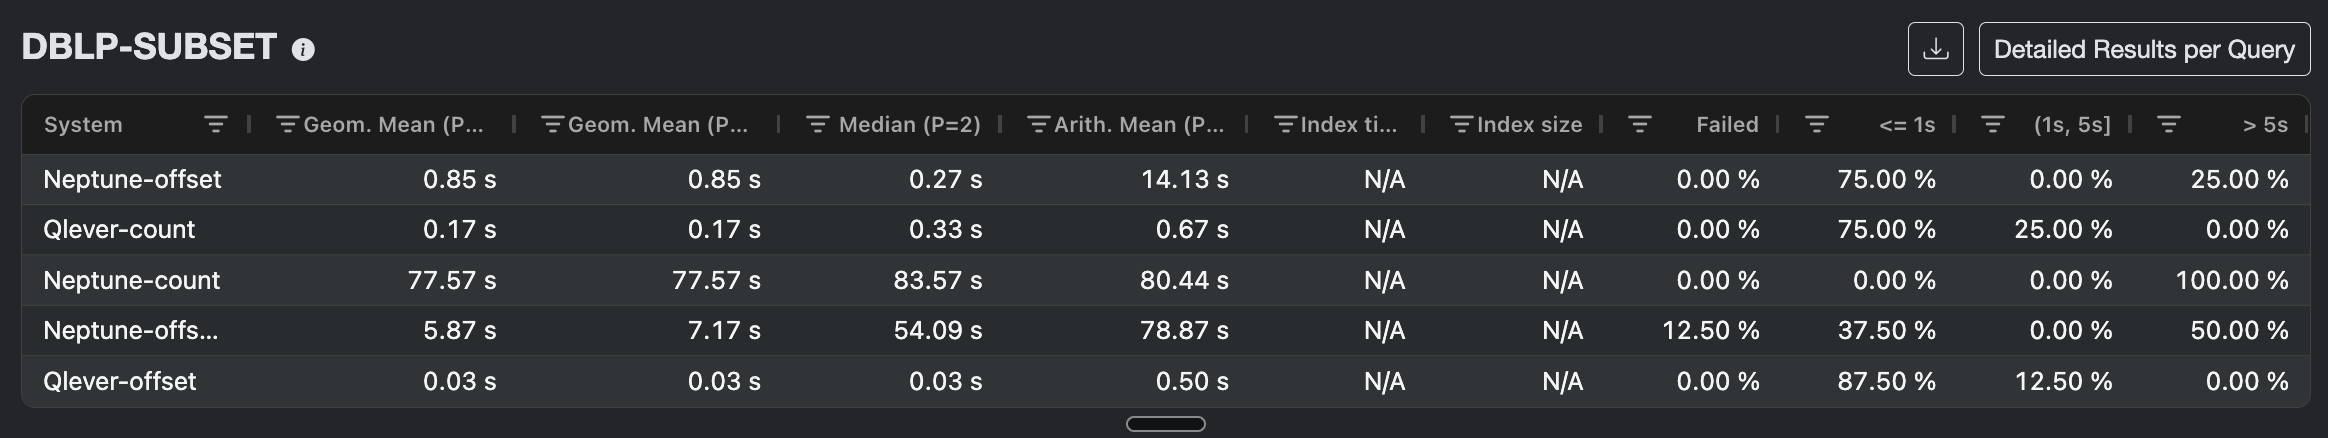
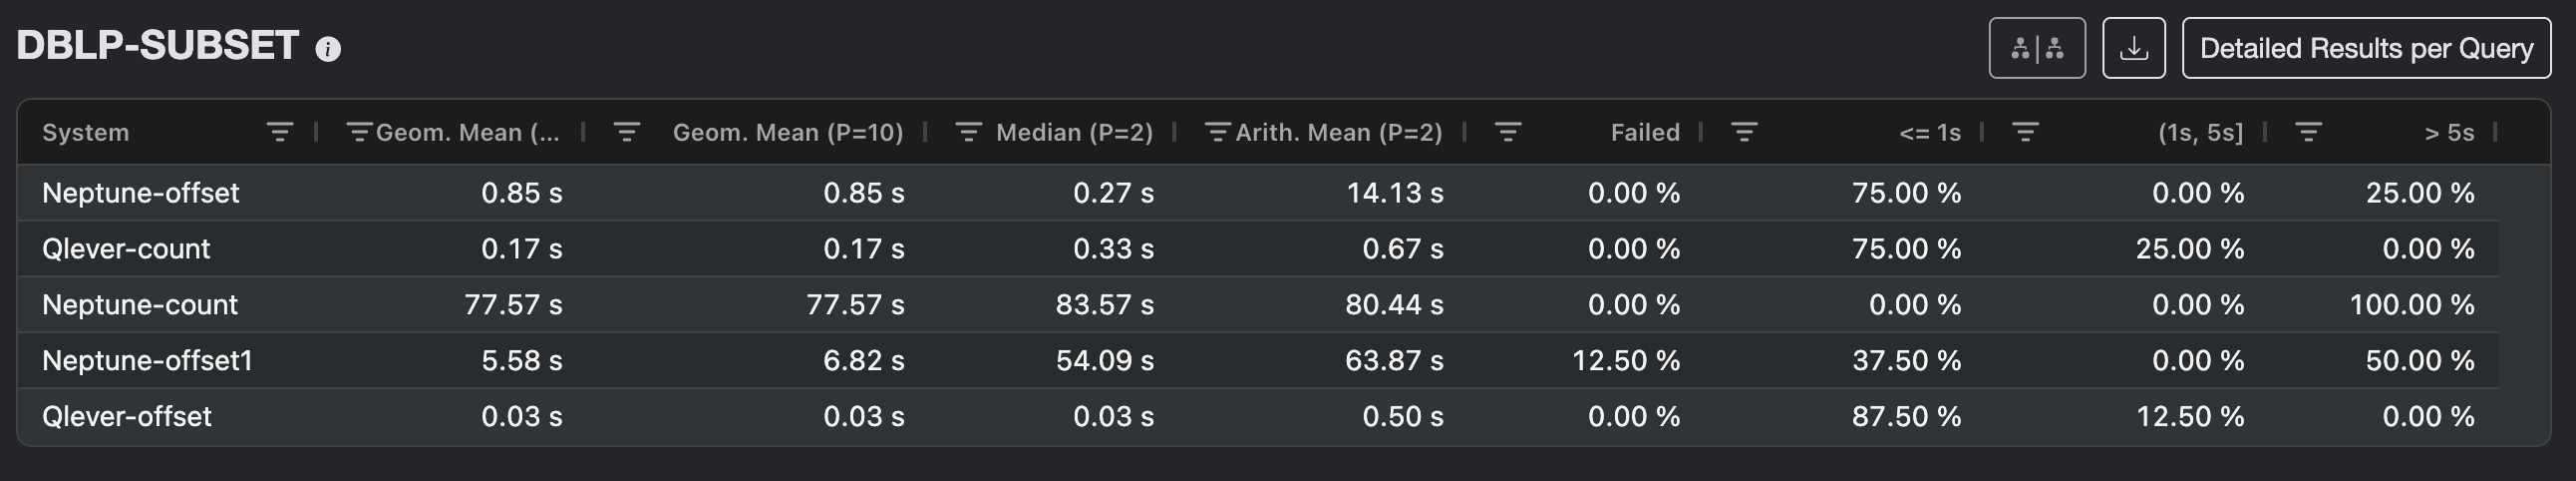
Update QLever cloud blog post (timeouts, discarded DBLP run, new screenshots)

diff --git a/content/post/project-qlever-cloud-benchmark/index.md b/content/post/project-qlever-cloud-benchmark/index.md
@@ -97,7 +97,7 @@ I ran four RDF database systems on DBLP and two on Wikidata-truthy:
 Instance classes were matched by available memory to make the comparison as fair as possible. All experiments ran in `eu-central-1a` (Frankfurt). The
 QLever, Virtuoso, and MillenniumDB systems were managed using the `qlever-control` CLI, which handles index building, server lifecycle, and benchmark execution uniformly across all systems.
 
-For the QLever DBLP index I increased `STXXL_MEMORY` to 40G in the Qleverfile to avoid “insufficient memory for merging blocks” errors on my specific EC2 setup. For Wikidata-truthy (`r6i.8xlarge`, 256 GiB, 3 TB `gp3` EBS volume at `/data`) I used `STXXL_MEMORY = 80G`. These values were conservative choices for this project, not minimal requirements of QLever. In the AD chair’s production setups, full Wikidata (more than twice the size of Wikidata-truthy) is routinely indexed with `STXXL_MEMORY = 10G`; my larger settings simply traded extra memory for a simpler, robust configuration during the experiments. Neptune data was loaded from an S3 bucket via Neptune bulk loader endpoint with an IAM loader role. The DBLP load completed in roughly **21 hours**; Wikidata-truthy took about **32 hours**.
+For the QLever DBLP index I increased `STXXL_MEMORY` to 40G in the Qleverfile to avoid “insufficient memory for merging blocks” errors on my specific EC2 setup. For Wikidata-truthy (`r6i.8xlarge`, 256 GiB, 3 TB `gp3` EBS volume at `/data`) I used `STXXL_MEMORY = 80G`. These values were conservative choices for this project, not minimal requirements of QLever. In the AD chair’s production setups, full Wikidata (more than twice the size of Wikidata-truthy) is routinely indexed with `STXXL_MEMORY = 10G`; my larger settings simply traded extra memory for a simpler, robust configuration during the index construction and has no direct effect on query execution, at query time QLever simply uses the full machine RAM like the other systems. Neptune data was loaded from an S3 bucket via Neptune bulk loader endpoint with an IAM loader role. The DBLP load completed in roughly **21 hours**; Wikidata-truthy took about **32 hours**.
 
 ### Warm vs cold: defining fair conditions
 
@@ -107,19 +107,20 @@ sudo bash -c "sync; sleep 5; echo 3 > /proc/sys/vm/drop_caches"
 ```
 OS page cache is cleared entirely, ensuring the engine cannot benefit from previously cached index data. For Neptune there is no equivalent mechanism, we approximated a cold start by **rebooting the writer instance** before each cold run.
 
+### Timeouts and query budgets
+
+For the DBLP and DBLP-SUBSET benchmarks, the effective per-query timeout was 120 seconds for both QLever and Neptune. Virtuoso and MillenniumDB used the evaluation framework defaults of 30 seconds and 60 seconds, respectively.
+For the Wikidata‑truthy benchmark, both QLever and Neptune used a 300 second per-query timeout.
+
 ---
 
 ## DBLP: from "too good to be true" to a fair fight
 
-### Initial results and a dose of skepticism
+### Initial DBLP run: why we discarded it
 
-After completing the full DBLP Sparqloscope run on both QLever and Neptune, the results were striking. Most queries that QLever executed in **under a second** were taking Neptune **50–100+ seconds**. Many queries timed out entirely.
+The very first DBLP benchmark used the older Sparqloscope TSV file and an earlier `qlever-control` version. At first, the results looked promising for QLever, but on closer inspection we found several methodological problems.
 
-Our analysis of the results: they looked great for QLever. So great, in fact, that we doubted whether the comparison was really fair. This was a legitimate concern. Before claiming QLever is orders of magnitude faster than the state-of-the-art cloud product that runs natively, you want to be confident the setup is actually fair to both sides.
-
-**There were two concrete problems.**  
-
-**Problem 1: Query Format.** I had started with the Sparqloscope TSV file, which wraps each logical query in an extra outer COUNT layer:
+**Problem 1: Query Format.** The TSV benchmark file wraps each logical query in an extra outer `COUNT` layer:
 ```sql
 -- AD Freiburg TSV format (dblp.benchmark.tsv)
 SELECT (COUNT(*) AS ?qlever_count_)
@@ -133,11 +134,17 @@ WHERE {
 ```
 This nested `COUNT` structure exists because of how QLever's original benchmarking query was designed. QLever can optimize through it. But for Neptune (and other RDF database systems), it is a genuine nested aggregation: the inner query computes a single scalar count, and the outer query then counts again over that scalar. The result still has just one row, but the system has to execute two aggregation stages instead of one, which makes these queries unnecessarily more complex and costly to evaluate.
 
-**Problem 2: Configuration.** I was running an older Neptune engine version with a default parameter group that imposed shorter timeouts than intended, and I had not set the `--download-or-count download` flag in the benchmarking CLI, which was causing the client to wrap some queries with yet another COUNT layer on top of what was already in the YAML.
+**Problem 2: Configuration.** We were running an older Neptune engine version with a default parameter group that imposed shorter timeouts than intended, and we had not set the `--download-or-count download` flag in the benchmarking CLI, which was causing the client to wrap some queries with yet another COUNT layer on top of what was already in the YAML.
+
+**Problem 3: Query Timeouts.** The result YAML for Neptune did not contain proper timeout metadata: individual failed queries were clearly timing out, but the aggregate metrics in the evaluation app treated them as generic failures, producing misleadingly low medians and means. 
+
+**Problem 4: server‑side crash.** Finally, for this initial DBLP run we observed a server‑side crash on the group-by-string-groupconcat query (curl exit code 52), followed by a sequence of around 25 queries failing almost instantly with curl exit code 7 while the endpoint was restarting. These fast error‑7 failures do not represent meaningful query performance.
+
+Because of these inconsistencies (wrong query format for Neptune, missing timeout metadata, and a crash with a long streak of invalid requests), we treat the initial DBLP run purely as a debugging step. We discarded its results and do not use any of its numbers for the evaluation below.
 
 ### Fixing the setup: query format, engine version, timeouts
 
-For the final DBLP rerun I made the following changes simultaneously:
+For the final DBLP rerun we made the following changes simultaneously:
 
 1. **Switched to `dblp.medium.queries.yaml`** for all systems. This file uses clean single-COUNT queries:
 ```sql
@@ -163,6 +170,12 @@ WHERE {
 
 Neptune results improved considerably after these changes, not because the DBLP data or the benchmark definition changed, but because Neptune was no longer being penalized by redundant aggregation layers and misconfigured timeouts. This is an important lesson in methodology, worth emphasizing: **When comparing systems, the benchmark setup must be fair to *all* engines under test, not just the one you developed.**
 
+### Qlever results on DBLP and a dose of skepticism
+
+After completing the full DBLP Sparqloscope run on both QLever and Neptune, the results were striking. Most queries that QLever executed in **under a second** were taking Neptune **50–100+ seconds**. Many queries timed out entirely.
+
+Our analysis of the results: they looked great for QLever. So great, in fact, that we doubted whether the comparison was really fair. This was a legitimate concern. Before claiming QLever is orders of magnitude faster than the state-of-the-art cloud product that runs natively, you want to be confident the setup is actually fair to both sides.
+
 ### Virtuoso and MillenniumDB as a sanity check
 
 Even after fixing the setup, QLever remained substantially faster than Neptune on nearly every query. After some discussions, Robin's suggestion was to add two more systems:
@@ -170,7 +183,7 @@ Even after fixing the setup, QLever remained substantially faster than Neptune o
 
 > *"The goal would be to find out if other engines fall more in line with QLever or Neptune."*
 
-I used Tanmay's multi-engine framework for this. Virtuoso was straightforward via the `qvirtuoso` wrapper. MillenniumDB required a small workaround as the Docker image build script referenced a `master` branch that no longer existed. So I cloned the repository, checked out the correct branch, and built the image manually before importing DBLP. 
+Using Tanmay's multi-engine framework for this. Virtuoso was straightforward via the `qvirtuoso` wrapper. MillenniumDB required a small workaround as the Docker image build script referenced a `master` branch that no longer existed. So I cloned the repository, checked out the correct branch, and built the image manually before importing DBLP. 
 
 *Overview of all benchmark results across all four systems:*
 
@@ -345,4 +358,3 @@ Thank you to **Robin Textor-Falconi** and **[Prof. Dr. Hannah Bast](https://ad.i
         padding: 0 5em;
     }
 </style>
-